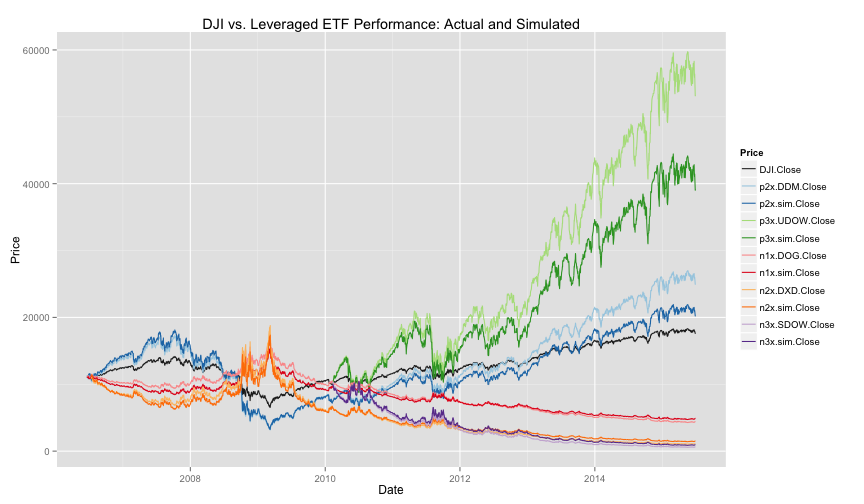
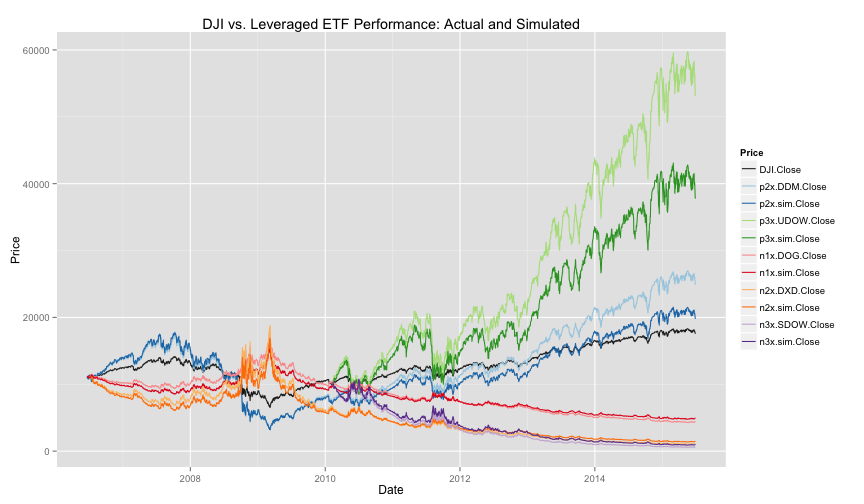
fixed bug in initial simulation conditions

diff --git a/leveraged_etf_analysis.md b/leveraged_etf_analysis.md
@@ -284,8 +284,8 @@ would have performed over the same period.
   base.name <- "GDM" 
 
   ## load the etf's and run comparable sims
-  p2x <- loadAndSim(xts.base, source, "GDXX", type, "p2x", 3.0)
-  n2x <- loadAndSim(xts.base, source, "GDXS", type, "n2x", -3.0)
+  p2x <- loadAndSim(xts.base, source, "GDXX", type, "p2x", 2.0)
+  n2x <- loadAndSim(xts.base, source, "GDXS", type, "n2x", -2.0)
 
   ## merge all the series into a single xts
   xts.merged <- merge(xts.base,
@@ -319,7 +319,7 @@ index, simulated leverage significantly outperformed the leveraged ETF.
 
 ```
 ##      GDM.Return.Monthly GDXS.Return.Monthly n2x.sim.Return.Monthly
-## 2015              -16.3                  26                   44.7
+## 2015              -16.3                28.6                   31.8
 ```
 
 #### Annualized Return
@@ -333,7 +333,7 @@ index, simulated leverage significantly outperformed the leveraged ETF.
 
 ```
 ##                   GDM.Return GDXS.Return n2x.sim.Return
-## Annualized Return     -37.71        85.9         156.69
+## Annualized Return     -37.71        94.8         102.82
 ```
 
 #### Performance Comparison
@@ -353,22 +353,22 @@ index, simulated leverage significantly outperformed the leveraged ETF.
 
 ```
 ##                 GDM.Return GDXS.Return n2x.sim.Return
-## Observations       95.0000     94.0000        95.0000
-## NAs                 0.0000      1.0000         0.0000
-## Minimum            -0.0671     -0.1060        -0.1357
-## Quartile 1         -0.0120     -0.0179        -0.0234
-## Median             -0.0009      0.0051         0.0028
-## Arithmetic Mean    -0.0017      0.0033         0.0052
-## Geometric Mean     -0.0019      0.0025         0.0037
-## Quartile 3          0.0078      0.0269         0.0361
-## Maximum             0.0452      0.1432         0.2012
-## SE Mean             0.0018      0.0041         0.0055
-## LCL Mean (0.95)    -0.0054     -0.0049        -0.0057
-## UCL Mean (0.95)     0.0019      0.0114         0.0160
-## Variance            0.0003      0.0016         0.0029
-## Stdev               0.0178      0.0399         0.0535
-## Skewness           -0.0999      0.0004         0.1019
-## Kurtosis            1.3685      1.1255         1.3701
+## Observations       95.0000     95.0000        95.0000
+## NAs                 0.0000      0.0000         0.0000
+## Minimum            -0.0671     -0.1060        -0.0905
+## Quartile 1         -0.0120     -0.0177        -0.0156
+## Median             -0.0009      0.0054         0.0019
+## Arithmetic Mean    -0.0017      0.0034         0.0034
+## Geometric Mean     -0.0019      0.0026         0.0028
+## Quartile 3          0.0078      0.0267         0.0241
+## Maximum             0.0452      0.1432         0.1341
+## SE Mean             0.0018      0.0041         0.0037
+## LCL Mean (0.95)    -0.0054     -0.0047        -0.0038
+## UCL Mean (0.95)     0.0019      0.0115         0.0107
+## Variance            0.0003      0.0016         0.0013
+## Stdev               0.0178      0.0397         0.0357
+## Skewness           -0.0991     -0.0124         0.0991
+## Kurtosis            1.3628      1.1537         1.3628
 ```
 
 #### Trailing 36-Month Returns
@@ -416,5 +416,37 @@ chart.RiskReturnScatter(n2x.merged[,return.col.index], Rf=0.03/12, add.boxplots=
 
 
 
+
+
+## diagnostics
+
+
+```r
+ # 11079.46
+ head(xts.merged$p2x.DDM.Close, 1)
+```
+
+```
+## NULL
+```
+
+```r
+ # 24994.14
+ tail(xts.merged$p2x.DDM.Close, 1)
+```
+
+```
+## NULL
+```
+
+```r
+ # 24994.14
+ #   (11079.46 -> 10935.87 .. adjusting for 1st day's return)
+ tail(compoundBalances(10935.87, xts.merged$DDM.Return), 1)
+```
+
+```
+## numeric(0)
+```
 
 
